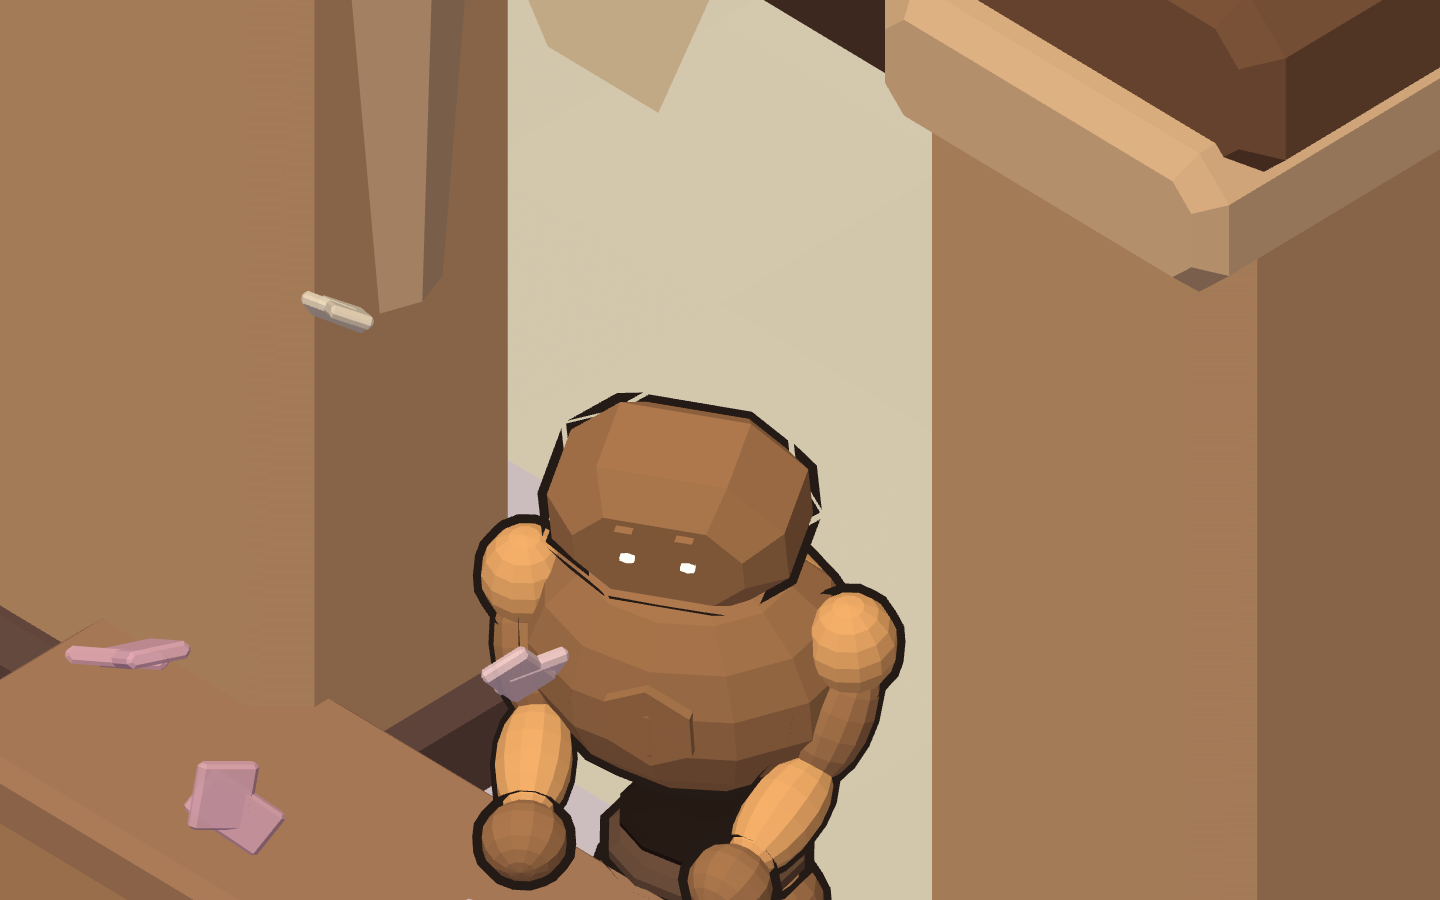
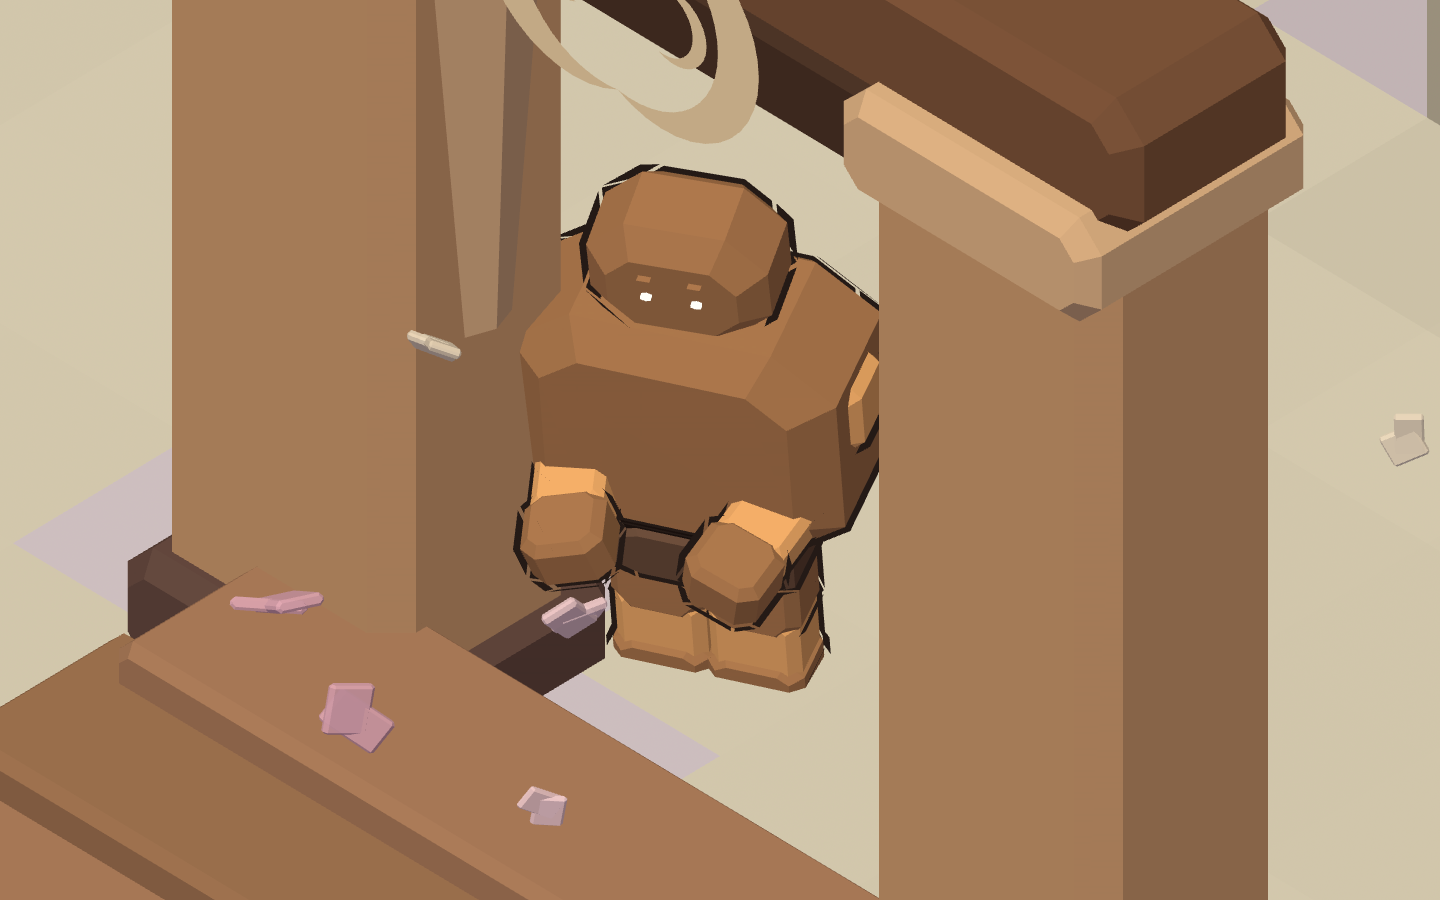
Five constructs, not one, and a head that reads from above
ONE CONSTRUCT IS NOT A POPULATION. There was exactly one Rocky, standing at the
relay, and the valley read as empty with a single statue in it. The reference
sheet has a whole family — a big one, several small ones, different stone in
every drawing.

Five now, each at a landmark and none of them wandering, because a landmark that
moves is not a landmark. Rocky at the relay; Cairn on the home terrace, smaller
and older; Warden on the high ground facing the weather, the tallest of them;
Tide standing in the shallows at the south lake; Ember on the fault, counting
geodes. Different stone, different heights, different things to say, and the
chest carries the mark or the crystal depending on which.

They do not break the premise. Rule 4 is that no other PEOPLE are left — these
are stone the lattice assembled, still walking for the same reason you are. A
valley with five of them in it is still a valley with nobody in it, and it is a
good deal less lonely to look at.

Each spec carries a SEED cell rather than a position, and the Construct resolves
it to the nearest standable ground — so a construct can never end up in the
river. Warden's seed searches for the highest cell nearby, Tide's for dry ground
within two cells of water, Ember's for the scarred band along the fault.

`nearest()` picks the closest rather than assuming there is one. And the
tutorial's ridge step is now specifically Rocky: with five of them, meeting
[…]

diff --git a/src/actors/cast.js b/src/actors/cast.js
@@ -4,7 +4,9 @@ import { buildPebble } from './pebble.js'
 import { Sixteen } from './dog.js'
 import { clamp, damp, pick, rng } from '../core/rng.js'
 import { findSpot, JOBS } from './jobs.js'
-import { GATE } from '../world/worldgen.js'
+import { GATE, HOME } from '../world/worldgen.js'
+import { N, P } from '../world/grid.js'
+import { G } from '../core/palette.js'
 
 /**
  * THE CAST — and it is a short list, on purpose.
@@ -19,42 +21,169 @@ import { GATE } from '../world/worldgen.js'
  * What moves in the valley:
  *
  *   SIXTEEN   the survey dog. The only living thing besides you.
- *   ROCKY     not a person. A Loom construct — stone the lattice assembled,
- *             still walking because unlike everything the colony built he was
- *             IN the checkpoint. He stands at the relay on the north ridge and
- *             does not leave it.
+ *   CONSTRUCTS  not people. Loom constructs — stone the lattice assembled,
+ *             still walking because unlike everything the colony built they
+ *             were IN the checkpoint. Five of them, each standing at a
+ *             landmark and none of them leaving it.
  *   PEBBLES   smaller constructs, found sealed in geodes, which wake up if you
  *             break one open.
  *
- * Rocky exists in exactly one instance. He is an NPC and a landmark; he is not
- * the player, he has no family here, and he does not run a shop.
+ * None of them is the player, none of them runs a shop, and none of them is a
+ * quest-giver. They are landmarks that talk.
  */
 
-/** The one construct. Everything about him is fixed except what he says. */
-export const ROCKY = {
-  id: 'rocky',
-  name: 'Rocky',
-  role: 'A Loom construct. Standing at the relay since before you woke up.',
-  cut: 'rocky',
-  /**
-   * The MARK, not the crystal.
-   *
-   * Both are canon — the sheet has drawings of each — but the adult carries the
-   * incised double-lune on his chest in most of them, and the little ones carry
-   * the rose crystal. Rocky was wired to the crystal, which meant the one place
-   * in the valley the brand should be unmistakable was a small pink blob.
-   */
-  chest: 'mark',
-  height: 2.1,
-  /** He does not wander. A landmark that moves is not a landmark. */
-  at: GATE,
-  face: 0,
-  lines: [
-    'You are the first thing to come up this ridge in forty days that the lattice did not put here.',
-    'It takes apart what it has no record of. Register the structure, or do not build it.',
-    'I am in the checkpoint. That is the only reason there is enough of me left to ask.',
-    'The relay still carries her logs. It will not tell me what is in them, and I have asked.',
-  ],
+/**
+ * THE CONSTRUCTS.
+ *
+ * There was exactly one of these, and one construct is not a population — the
+ * valley read as empty with a single statue in it. The sheet has a whole family:
+ * a big one, several small ones, different stone in each drawing.
+ *
+ * They do not break the premise. Rule 4 is that no other PEOPLE are left; these
+ * are Loom constructs, stone the lattice assembled, and the reason they are
+ * still walking is the same reason you are — they were inside the checkpoint
+ * when it rolled back. A valley with five of them in it is still a valley with
+ * nobody in it, which is the point, and it is a good deal less lonely to look at.
+ *
+ * Each stands at a landmark and does not wander. A landmark that moves is not a
+ * landmark. What differs between them is the stone, the height, what they carry
+ * on the chest, and what they have to say.
+ *
+ * `at` is a seed cell; the real position is the nearest standable ground to it,
+ * so a construct can never end up in the river.
+ */
+export const CONSTRUCTS = [
+  {
+    id: 'rocky',
+    name: 'Rocky',
+    role: 'A Loom construct. Standing at the relay since before you woke up.',
+    cut: 'rocky',
+    /**
+     * The MARK, not the crystal. Both are canon — the sheet has drawings of
+     * each — but the adult carries the incised double-crescent in most of them
+     * and the little ones carry the rose crystal.
+     */
+    chest: 'mark',
+    height: 2.1,
+    at: () => GATE,
+    face: 0,
+    lines: [
+      'You are the first thing to come up this ridge in forty days that the lattice did not put here.',
+      'It takes apart what it has no record of. Register the structure, or do not build it.',
+      'I am in the checkpoint. That is the only reason there is enough of me left to ask.',
+      'The relay still carries her logs. It will not tell me what is in them, and I have asked.',
+    ],
+  },
+  {
+    id: 'cairn',
+    name: 'Cairn',
+    role: 'Smaller, and older than Rocky. Has not moved off the home terrace in forty days.',
+    cut: 'cairn',
+    chest: 'shard',
+    height: 1.55,
+    at: () => ({ x: HOME.x - 7, z: HOME.z - 9 }),
+    face: Math.PI * 0.75,
+    lines: [
+      'You were down there a long time. I counted.',
+      'Rocky says the lattice keeps a record. It kept me. It did not keep the orchard.',
+      'The soil here is wrong and it has always been wrong. Plant anyway.',
+    ],
+  },
+  {
+    id: 'warden',
+    name: 'Warden',
+    role: 'The tallest of them, on the high ground, facing the weather.',
+    cut: 'basalt',
+    chest: 'mark',
+    height: 2.6,
+    at: (grid) => highestNear(grid, N * 0.3, N * 0.28),
+    face: Math.PI * 1.15,
+    lines: [
+      'From here you can see every one of the passes, and nothing has come through any of them.',
+      'I am not waiting for anybody. I am the thing that would see them.',
+      'The weather still works. That is not nothing.',
+    ],
+  },
+  {
+    id: 'tide',
+    name: 'Tide',
+    role: 'Stands in the shallows at the south lake and will not say why.',
+    cut: 'sand',
+    chest: 'shard',
+    height: 1.8,
+    at: (grid) => shoreNear(grid, Math.round(N * 0.72), Math.round(N * 0.78)),
+    face: Math.PI * 0.25,
+    lines: [
+      'There is something under this lake that the rollback did not reach.',
+      'No, I have not been in. I said I stand here.',
+      'The water is the only part of the valley that was already like this.',
+    ],
+  },
+  {
+    id: 'ember',
+    name: 'Ember',
+    role: 'Walks the fault, or would, if it ever finished counting.',
+    cut: 'ember',
+    chest: 'shard',
+    height: 1.95,
+    at: (grid) => scarNear(grid, Math.round(N * 0.55), Math.round(N * 0.55)),
+    face: Math.PI * 1.6,
+    lines: [
+      'Nine hundred and six geodes along this line. I have opened none of them.',
+      'They are eggs. You have worked that out by now.',
+      'When one hatches near you, it is because it chose to.',
+    ],
+  },
+]
+
+/** Kept for anything that still wants the one by name. */
+export const ROCKY = CONSTRUCTS[0]
+
+/** The highest standable cell near a seed point — where a lookout would stand. */
+function highestNear(grid, sx, sz) {
+  let best = null
+  let bestH = -1
+  for (let z = Math.max(2, sz - 16); z < Math.min(N - 2, sz + 16); z++) {
+    for (let x = Math.max(2, sx - 16); x < Math.min(N - 2, sx + 16); x++) {
+      const h = grid.h(x, z)
+      if (h > bestH && !grid.isWater(x, z) && grid.prop[z * N + x] === P.NONE) { bestH = h; best = { x, z } }
+    }
+  }
+  return best ?? { x: Math.round(sx), z: Math.round(sz) }
+}
+
+/** Dry ground with water within two cells of it. */
+function shoreNear(grid, sx, sz) {
+  for (let r = 1; r < 26; r++) {
+    for (let dz = -r; dz <= r; dz++) {
+      for (let dx = -r; dx <= r; dx++) {
+        if (Math.max(Math.abs(dx), Math.abs(dz)) !== r) continue
+        const x = sx + dx
+        const z = sz + dz
+        if (x < 2 || z < 2 || x >= N - 2 || z >= N - 2) continue
+        if (grid.isWater(x, z) || grid.prop[z * N + x] !== P.NONE) continue
+        if (grid.nearWater(x, z, 2)) return { x, z }
+      }
+    }
+  }
+  return { x: sx, z: sz }
+}
+
+/** The scarred band along the fault. */
+function scarNear(grid, sx, sz) {
+  for (let r = 1; r < 40; r++) {
+    for (let dz = -r; dz <= r; dz++) {
+      for (let dx = -r; dx <= r; dx++) {
+        if (Math.max(Math.abs(dx), Math.abs(dz)) !== r) continue
+        const x = sx + dx
+        const z = sz + dz
+        if (x < 2 || z < 2 || x >= N - 2 || z >= N - 2) continue
+        if (grid.isWater(x, z) || grid.prop[z * N + x] !== P.NONE) continue
+        if (grid.ground[z * N + x] === G.SCAR) return { x, z }
+      }
+    }
+  }
+  return { x: sx, z: sz }
 }
 
 // --- Rocky, standing --------------------------------------------------------
@@ -64,7 +193,9 @@ class Construct {
     this.spec = spec
     this.grid = grid
     this.rig = buildRocky({ cut: spec.cut, chest: spec.chest, height: spec.height, outline: true })
-    this.pos = new THREE.Vector2(spec.at.x + 0.5, spec.at.z + 0.5)
+    const seed = typeof spec.at === 'function' ? spec.at(grid) : spec.at
+    const [cx, cz] = grid.nearestStandable(seed.x, seed.z, 18)
+    this.pos = new THREE.Vector2(cx + 0.5, cz + 0.5)
     this.facing = spec.face ?? 0
     this.near = Infinity
     this.line = 0
@@ -293,7 +424,9 @@ export class Cast {
     this.scene = scene
     this.grid = grid
     this.state = state
-    this.rocky = new Construct(ROCKY, grid, scene)
+    this.constructs = CONSTRUCTS.map((spec) => new Construct(spec, grid, scene))
+    // The one at the relay, for anything that wants him by name.
+    this.rocky = this.constructs[0]
     this.sixteen = new Sixteen(grid, scene, [playerAt[0] + 1.4, playerAt[1] + 1.2])
     this.pebbles = []
     this.t = 0
@@ -312,14 +445,19 @@ export class Cast {
   update(dt, playerPos, hour) {
     this.t += dt
     const night = hour < 5.6 || hour > 21
-    this.rocky.update(dt, playerPos)
+    for (const c of this.constructs) c.update(dt, playerPos)
     this.sixteen.update(dt, playerPos, (x, z) => this.state.dogFound(x, z))
     for (const p of this.pebbles) p.update(dt, playerPos, night, this.state.day)
   }
 
-  /** Whoever is within reach, or null. Rocky is the only thing you can talk to. */
+  /** The nearest construct within reach, or null. Five of them now, so this
+   *  picks the closest rather than assuming there is only one. */
   nearest(playerPos, range = 3) {
-    return this.rocky.near < range ? this.rocky : null
+    let best = null
+    for (const c of this.constructs) {
+      if (c.near < range && (!best || c.near < best.near)) best = c
+    }
+    return best
   }
 
   /** What Rocky says about the next pruning — the one piece of information the

diff --git a/src/actors/rocky.js b/src/actors/rocky.js
@@ -224,7 +224,7 @@ export function buildRocky({ cut = 'rocky', chest = 'mark', height = 1.9, outlin
   plate(chestG, { geo: BLOCK, at: [0, 0.17, 0], size: [0.50, 0.40, 0.385], mat: MAT.stone })
   // A lighter cap across the top, so the shoulder line catches the sun and the
   // barrel does not read as one flat blob.
-  plate(chestG, { geo: BLOCK, at: [0, 0.325, -0.02], size: [0.40, 0.11, 0.30], mat: MAT.lit })
+  plate(chestG, { geo: BLOCK, at: [0, 0.315, -0.015], size: [0.34, 0.10, 0.26], mat: MAT.lit })
 
   // ------------------------------------------------------------ the badge --
   // Set INTO a cut recess, never laid on top. The recess is the whole difference
@@ -256,8 +256,8 @@ export function buildRocky({ cut = 'rocky', chest = 'mark', height = 1.9, outlin
   //
   // Straight on the torso. There is no neck on the sheet, and adding one is the
   // fastest way to turn a golem into a robot.
-  const head = pivot(chestG, [0, 0.40, 0], 'head')
-  plate(head, { geo: chamferBox(0.253, 0.154, 0.225, 0.05), at: [0, 0.077, 0], size: [1, 1, 1], mat: MAT.stone })
+  const head = pivot(chestG, [0, 0.445, 0], 'head')
+  plate(head, { geo: chamferBox(0.26, 0.175, 0.235, 0.05), at: [0, 0.088, 0], size: [1, 1, 1], mat: MAT.stone })
   // No second plate on the crown. One was there for faceting and its corners
   // poked through the chamfered box below as pale slivers; `flatShading` on the
   // chamfer already gives the head the cut planes the drawing has.
@@ -272,14 +272,14 @@ export function buildRocky({ cut = 'rocky', chest = 'mark', height = 1.9, outlin
      * most of why he did not read as the drawing.
      */
     const eye = new THREE.Mesh(FLAT, MAT.eye)
-    eye.position.set(side * 0.045, 0.079, 0.115)
+    eye.position.set(side * 0.05, 0.088, 0.122)
     eye.scale.set(0.024, 0.013, 0.012)
     head.add(eye)
     parts[side < 0 ? 'eyeL' : 'eyeR'] = eye
 
     // The lid: a plate of head-stone that drops over the eye to blink.
     const lid = new THREE.Mesh(FLAT, MAT.stone)
-    lid.position.set(side * 0.045, 0.093, 0.118)
+    lid.position.set(side * 0.05, 0.104, 0.125)
     lid.scale.set(0.03, 0.001, 0.014)
     head.add(lid)
     parts[side < 0 ? 'lidL' : 'lidR'] = lid
@@ -296,9 +296,9 @@ export function buildRocky({ cut = 'rocky', chest = 'mark', height = 1.9, outlin
      * makes his outline read as a barrel with two sausages either side rather
      * than as armour.
      */
-    plate(chestG, { geo: BLOCK, at: [side * 0.25, 0.245, 0], size: [0.145, 0.15, 0.145], mat: MAT.lit })
+    plate(chestG, { geo: BLOCK, at: [side * 0.252, 0.225, 0], size: [0.15, 0.145, 0.15], mat: MAT.lit })
 
-    const upper = pivot(chestG, [side * 0.258, 0.205, 0], `arm${L}`)
+    const upper = pivot(chestG, [side * 0.262, 0.185, 0], `arm${L}`)
     plate(upper, { geo: BLOCK, at: [0, -0.085, 0], size: [0.108, 0.21, 0.108], mat: MAT.stone })
 
     const lower = pivot(upper, [0, -0.175, 0], `fore${L}`)

diff --git a/tools/checks.js b/tools/checks.js
@@ -166,6 +166,29 @@ console.log('the premise')
   const world = read(path.join(SRC, 'world/worldgen.js'))
   assert(!/export const VILLAGE/.test(world), 'the generator does not place a village')
   assert(/Sixteen/.test(cast), 'Sixteen is in the cast')
+
+  /**
+   * MORE THAN ONE CONSTRUCT.
+   *
+   * There was exactly one, and one construct is not a population — the valley
+   * read as empty with a single statue in it. They do not break rule 4: no
+   * other PEOPLE are left, and these are stone the lattice assembled. A valley
+   * with five of them in it is still a valley with nobody in it.
+   */
+  const { CONSTRUCTS } = await import('../src/actors/cast.js')
+  assert(CONSTRUCTS.length >= 4, `the valley has more than one construct (${CONSTRUCTS.length})`)
+  const ids = CONSTRUCTS.map((c) => c.id)
+  assert(new Set(ids).size === ids.length, 'and each is a distinct one', ids.join(', '))
+  assert(CONSTRUCTS.every((c) => c.lines.length >= 3), 'each has something of its own to say')
+  const cuts = new Set(CONSTRUCTS.map((c) => c.cut))
+  assert(cuts.size >= 3, `they are cut from different stone (${cuts.size} cuts)`)
+  const heights = CONSTRUCTS.map((c) => c.height)
+  assert(Math.max(...heights) - Math.min(...heights) > 0.6,
+    'and they are not all the same size', `${Math.min(...heights)}..${Math.max(...heights)}`)
+  // Nobody may be placed in the river: the spec carries a SEED cell and the
+  // Construct resolves it to the nearest standable ground.
+  assert(/nearestStandable\(seed\.x, seed\.z/.test(cast), 'each resolves to standable ground')
+
 }
 
 // ------------------------------------------------------- 4. no net assets --

diff --git a/src/main.js b/src/main.js
@@ -739,9 +739,16 @@ function handleInteraction(talking) {
         : near.speak())
       near.line++
       audio.golem(1)
-      if (!state.flags.has('met-rocky')) {
+      // Specifically Rocky, and specifically at the relay. There are five
+      // constructs now and the ridge step has to mean the ridge — meeting Cairn
+      // on the home terrace would otherwise tick it off without a walk.
+      if (near.spec.id === 'rocky' && !state.flags.has('met-rocky')) {
         state.flags.add('met-rocky')
         state.addJournal('Met the construct at the relay. It calls itself Rocky and it does not leave the ridge.')
+      }
+      if (!state.flags.has(`met-${near.spec.id}`)) {
+        state.flags.add(`met-${near.spec.id}`)
+        state.addJournal(`Met ${near.spec.name}. ${near.spec.role}`)
       }
       return near
     }
